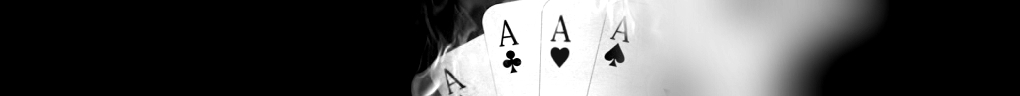
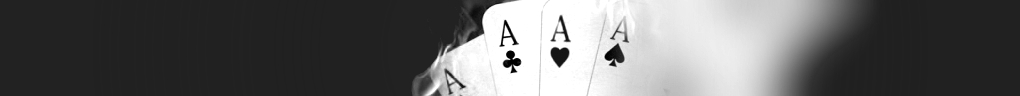
arreglado imagenes

diff --git a/templates/index.html b/templates/index.html
@@ -127,7 +127,7 @@
             <div class="col-xs-3">
                 <div class="category">
                     <a href="products.html">
-                        <img src="{% static 'images/chips.jpg' %}" class="img-responsive" alt="">
+                        <img src="{% static 'images/software.jpg' %}" class="img-responsive" alt="">
                         <div class="category-mask"></div>
                         <h3 class="category-title">Software<span>Ver Más</span></h3>
                     </a>
@@ -163,7 +163,7 @@
         DVISION IMAGE
     =========================== -->
     <section>
-      <div class="row row-no-padding" style="width: 100%; background-color: #000000">
+      <div class="row row-no-padding" style="width: 100%; background-color: #222222">
         <img src="{% static 'images/div.jpg' %}">
       </div>
     </section>

diff --git a/static_files/css/styles.css b/static_files/css/styles.css
@@ -5856,3 +5856,8 @@ header.navbar-transparent .navbar-brand:hover {
 header.navbar-transparent .navbar-nav > li > a:hover {
 	color:#95865E;
 }
+
+.categories .category:hover .category-mask {
+	opacity:0.4;
+	color:#95865E;
+}
